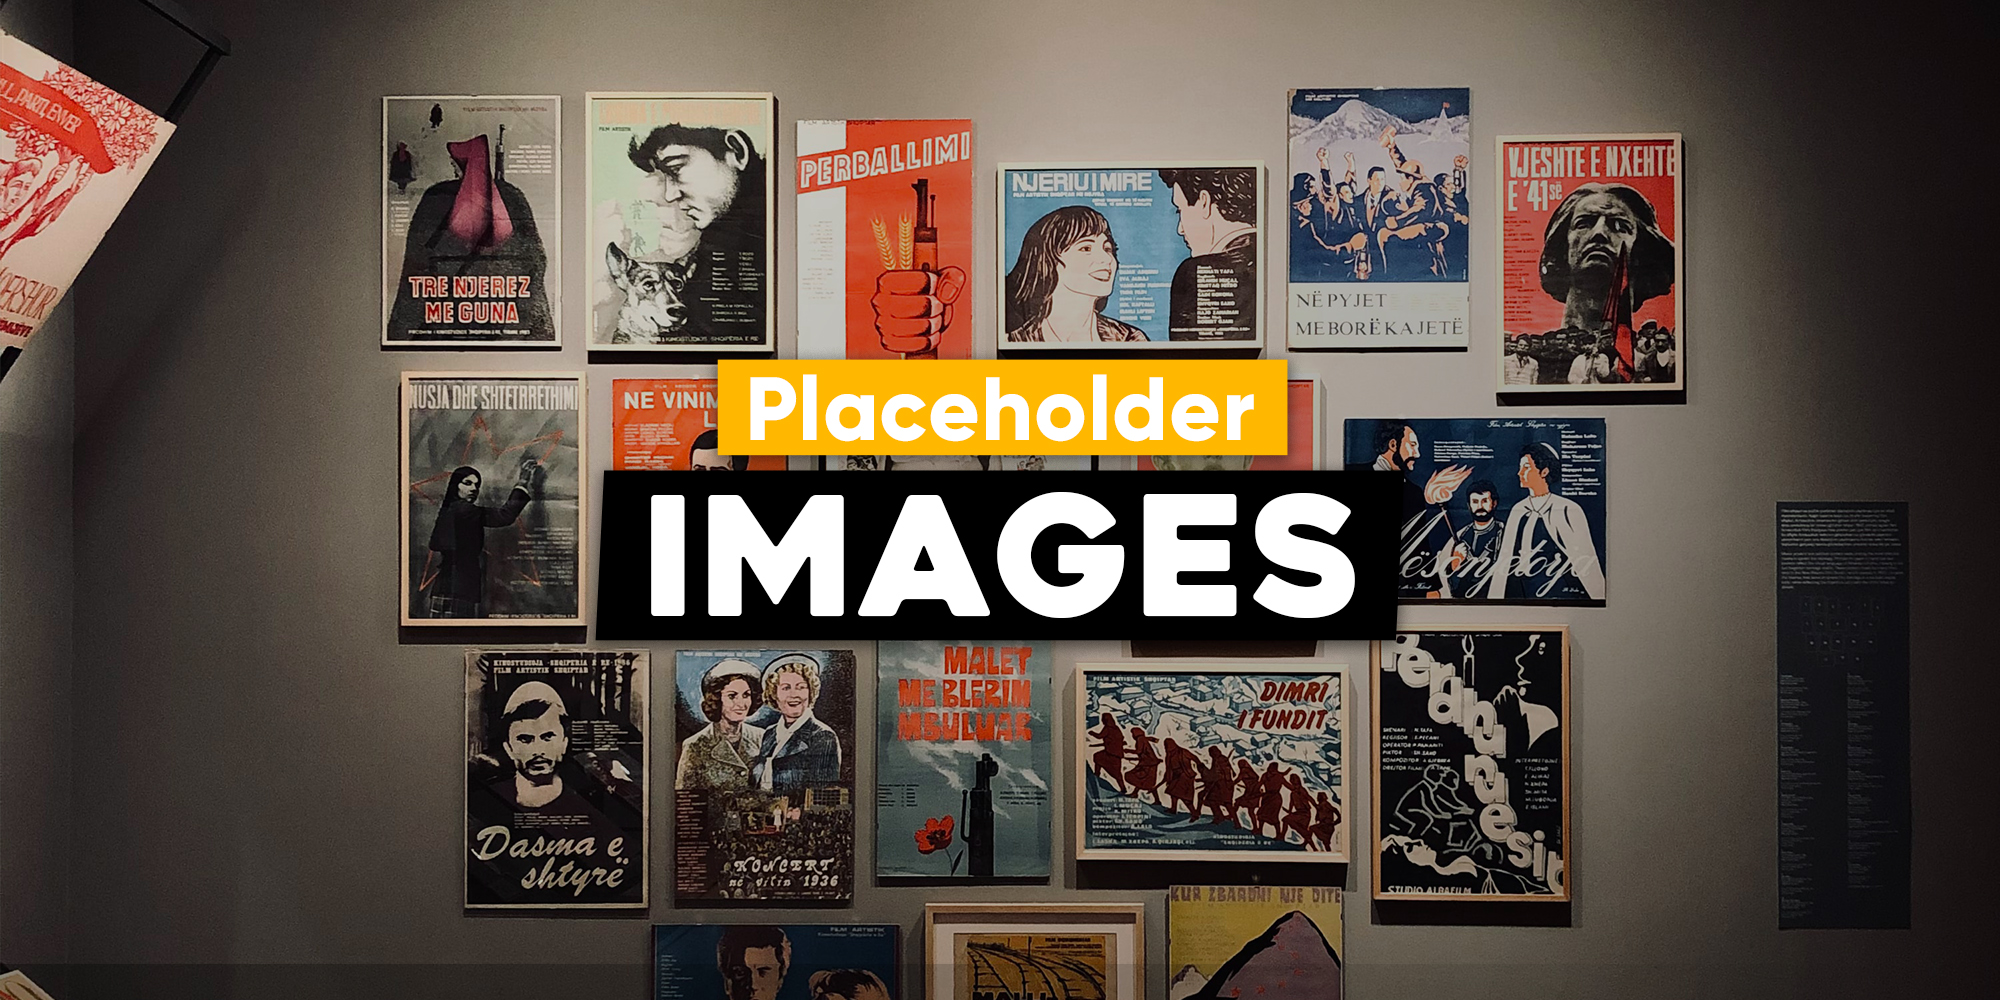
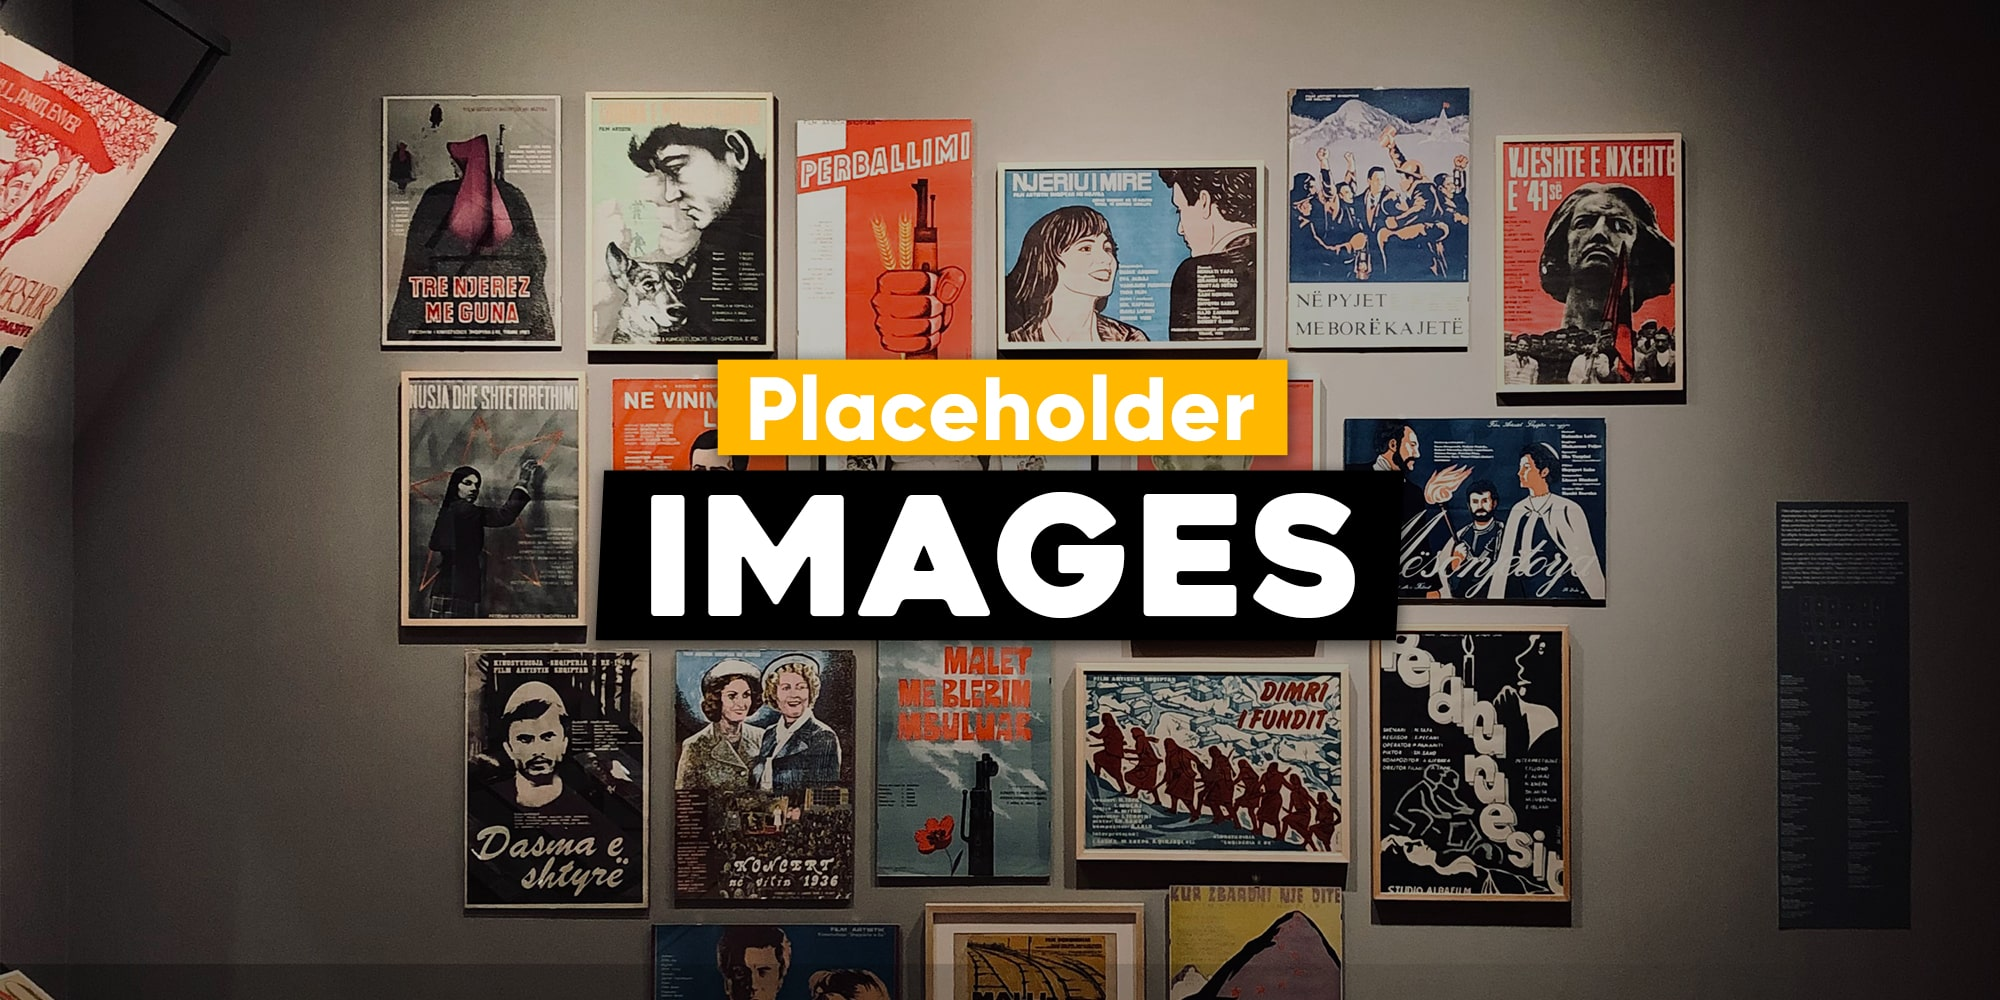
Images compressed

Changed region(s): [[0.372, 0.372, 0.62, 0.465]]

diff --git a/front-end/src/Components/Section-3.jsx b/front-end/src/Components/Section-3.jsx
@@ -32,8 +32,7 @@ function Section3() {
       </ul>
 
       <div className="contact-me">
-        Looking for something else?
-        <a href="mailto:devangsaklani@gmail.com">Contact me</a>
+        Looking for something else?&nbsp;<a href="mailto:devangsaklani@gmail.com">Contact me</a>
       </div>
     </section>
   );
